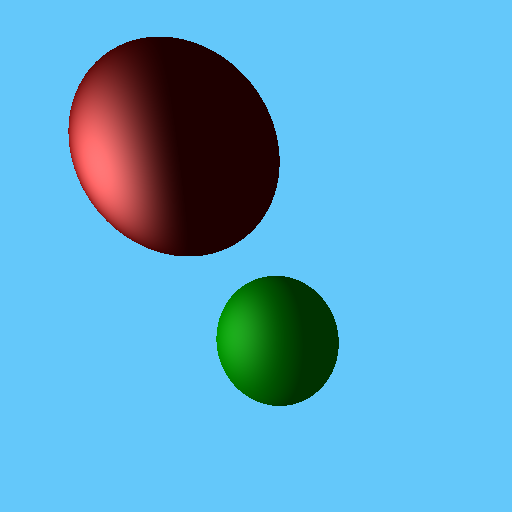
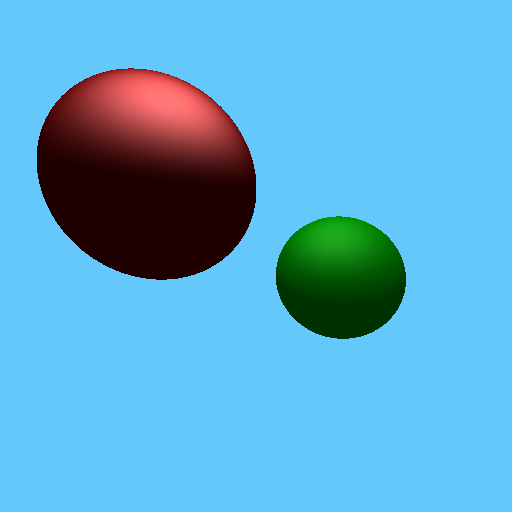
correccion de las luces

Changed region(s): [[0.0625, 0.0625, 0.5625, 0.5625], [0.4062, 0.4062, 0.8125, 0.8125]]

diff --git a/RayTracerPy.py b/RayTracerPy.py
@@ -37,9 +37,9 @@ class RayTracerPy(object):
         self.scene = Scene()
 
     def raytracer(self):
-        screenX = T3D()
-        screenY = T3D()
-        firstRay = T3D()
+        screenX = T3D(0,0,0)
+        screenY = T3D(0,0,0)
+        firstRay = T3D(0,0,0)
         ray = T3D(0,0,0)
         self.viewing(screenX, screenY, firstRay)
 
@@ -50,7 +50,7 @@ class RayTracerPy(object):
                 ray.z = firstRay.z + pixelX * screenX.z - lineY * screenY.z
                 RayMath().normalize(ray)
                 color = self.intersect(-1, self.scene.camera.lookFrom, ray)
-                self.npImage[pixelX, lineY] = color
+                self.npImage[lineY, pixelX] = color
         
     def viewing(self, screenX, screenY, firstRay):
         gaze = T3D()
@@ -109,7 +109,6 @@ class RayTracerPy(object):
         normal = self.scene.getObject(objHit).normal(hit)
 
         r,g,b = self.shade(hit, ray, normal, self.scene.getObject(objHit))
-        # print(r,g,b)
 
         return r,g,b
     
